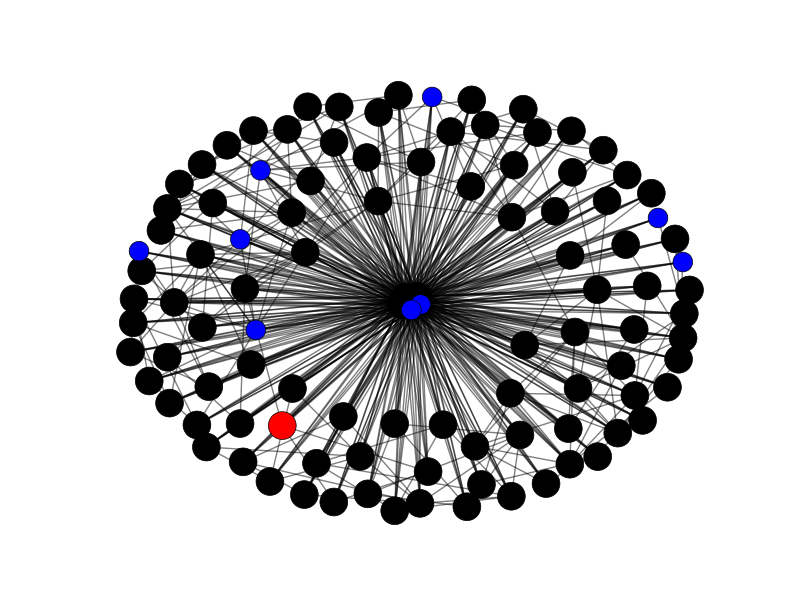
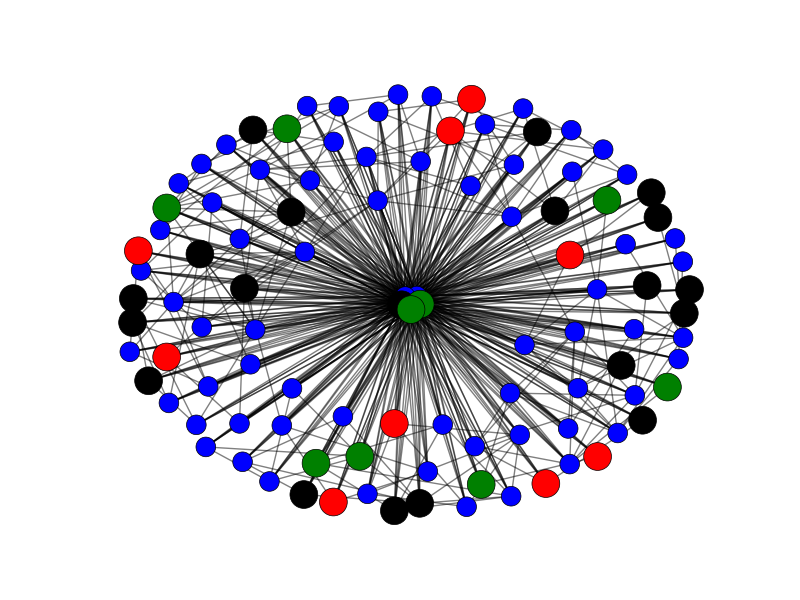
recovered state added

Changed region(s): [[0.125, 0.12, 0.875, 0.87]]

diff --git a/model/node.py b/model/node.py
@@ -20,19 +20,19 @@ class polya_node:
             self.init_red = 10
             self.init_black = 10
         elif self.risk == "hi":
-            self.init_red = 12
-            self.init_black = 8
+            self.init_red = 11
+            self.init_black = 9
         elif self.risk == "lo":
-            self.init_red = 8
-            self.init_black = 12
+            self.init_red = 9
+            self.init_black = 11
         elif self.risk == "mid-ext":
             self.init_red = 10
             self.init_black = 10
             self.delta_r = 10
             self.delta_b = 10
         elif self.risk == "lo-ext":
-            self.init_red = 8
-            self.init_black = 12
+            self.init_red = 9
+            self.init_black = 11
             self.delta_r = 4
             self.delta_b = 6
         # elif self.profile == "hi traffic worker":
@@ -50,6 +50,8 @@ class polya_node:
         self.degree = 0         # number of neighbours
         self.alive = True        # is the urn to be drawn from?
         self.id = _id
+        self.recovered = False
+        self.daysInfected = 0
 
 
     def set_delta_b(self):
@@ -122,12 +124,17 @@ class polya_node:
     
     def check_death(self):
         roll = random.random()
-        if roll < 0.5:
+        if roll < 0.05:
             self.alive = False
             self.neighbours = []
             return True
         else:
             return False
+
+    def reset_node(self):
+        self.total_black = self.init_black
+        self.total_black = self.init_red
+        self.recovered = True
         
         
         

diff --git a/utilities/plots.py b/utilities/plots.py
@@ -14,10 +14,13 @@ def draw_graph(G, step, l):
 
     color_lookup = {}
     for k in set(G.nodes):
-        if k.alive == True:
-            color_lookup[k] = k.red_proportion()
+        if k.recovered == True:
+            color_lookup[k] = 102
         else:
-            color_lookup[k] = 101
+            if k.alive == True:
+                color_lookup[k] = k.red_proportion()
+            else:
+                color_lookup[k] = 101
     # color_lookup = {k: k.red_proportion() for k in set(G.nodes())}
 
     fig = figure(figsize=(8, 6))
@@ -30,15 +33,17 @@ def draw_graph(G, step, l):
     cmap = cm.get_cmap('coolwarm')
 
     weights = color_lookup.values()
-    sizes = [200 if weight <= .6 else 400 for weight in weights]
+    sizes = [200 if weight <= .8 else 400 for weight in weights]
     # node_colors = [0 if weight <= .6 else 1 for weight in list(weights)]
     node_colors = []
     for weight in list(weights):
+        if weight == 102:
+            node_colors.append("g")
         if weight == 101:
             node_colors.append("k")
-        if weight < 0.6:
+        if weight < 0.8:
             node_colors.append("b")
-        if weight <=1 and weight >=0.6:
+        if weight <=1 and weight >=0.8:
             node_colors.append("r")
 
 

diff --git a/model/model.py b/model/model.py
@@ -98,6 +98,8 @@ class network:
         infected = 0
         deaths = 0
         for node in self.nodes:
+            if node.recovered:
+                continue
             if node.alive == False:
                 deaths += 1
             else:
@@ -109,10 +111,13 @@ class network:
                     elif self.Z[node.id][n] == 1:
                         total_red += self.draw_data[node.id][n]
                 infection_percent = total_red / (total_red+total_black)
-                if infection_percent >= 0.6:
+                if infection_percent >= 0.8:
                     death = node.check_death()
                     if death == False:
-                        infected += 1   
+                        infected += 1
+                        node.daysInfected +=1
+                        if node.daysInfected > 10:
+                            node.reset_node()
                     else:
                         deaths += 1
                 node.total_red = total_red

diff --git a/run/first-sim.py b/run/first-sim.py
@@ -53,8 +53,8 @@ for k in range(1):
 # plot data
 # plot_ave_red_proportion(red_prop_data)
 # plot_ave_infection_rate(super_red_prop_data)
-# total_infected_plot(G_super)
-# average_total_infected_plot(G_super)
+total_infected_plot(G_super)
+average_total_infected_plot(G_super)
 total_deaths_plot(G_super)
 
 print("Done")
